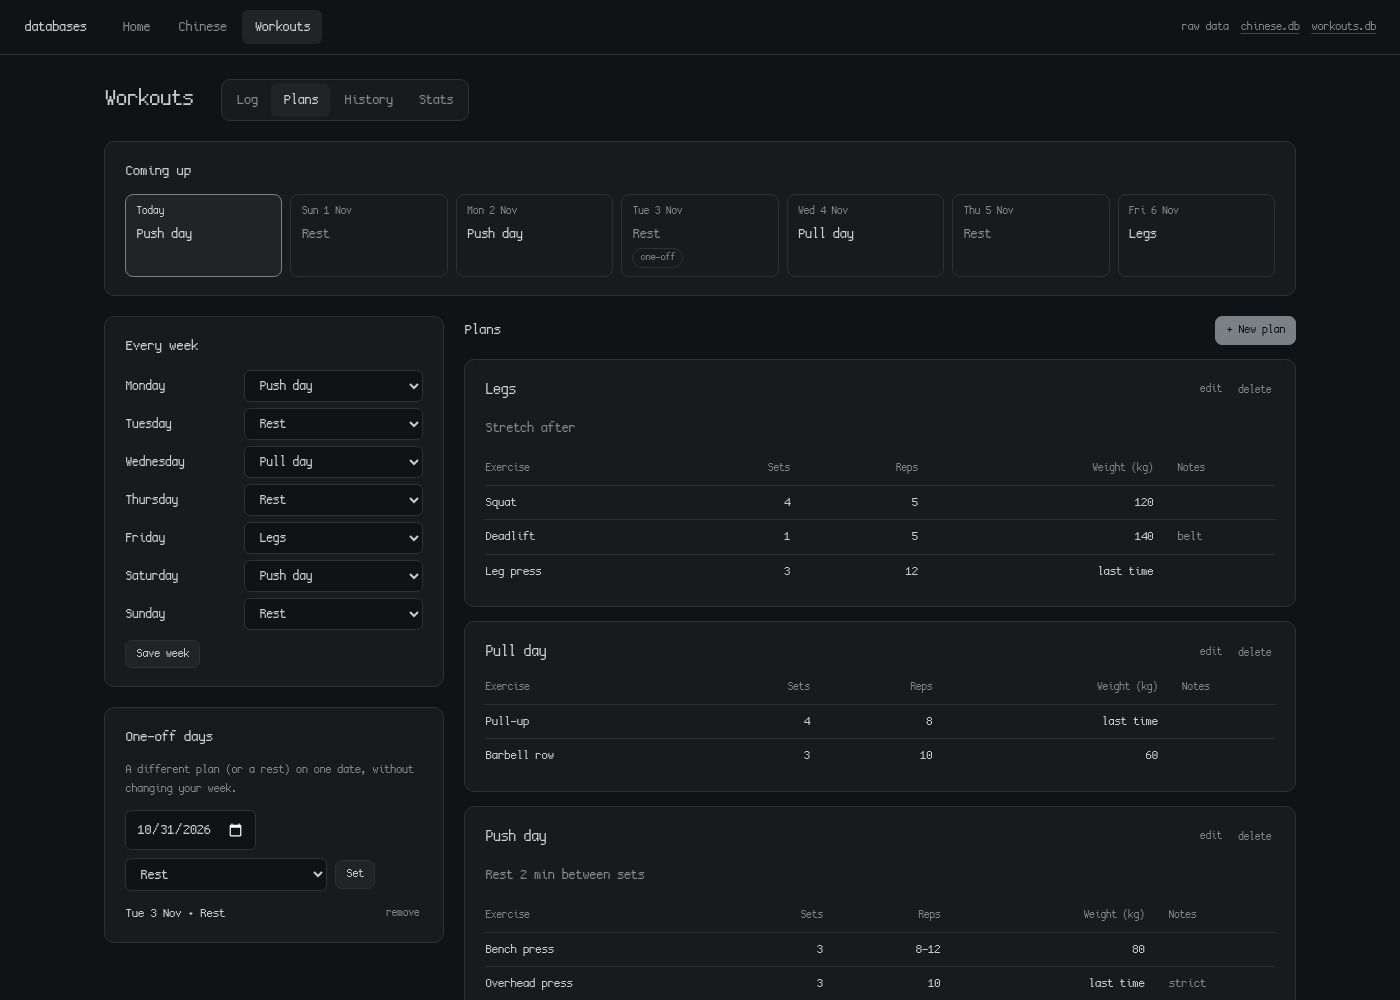
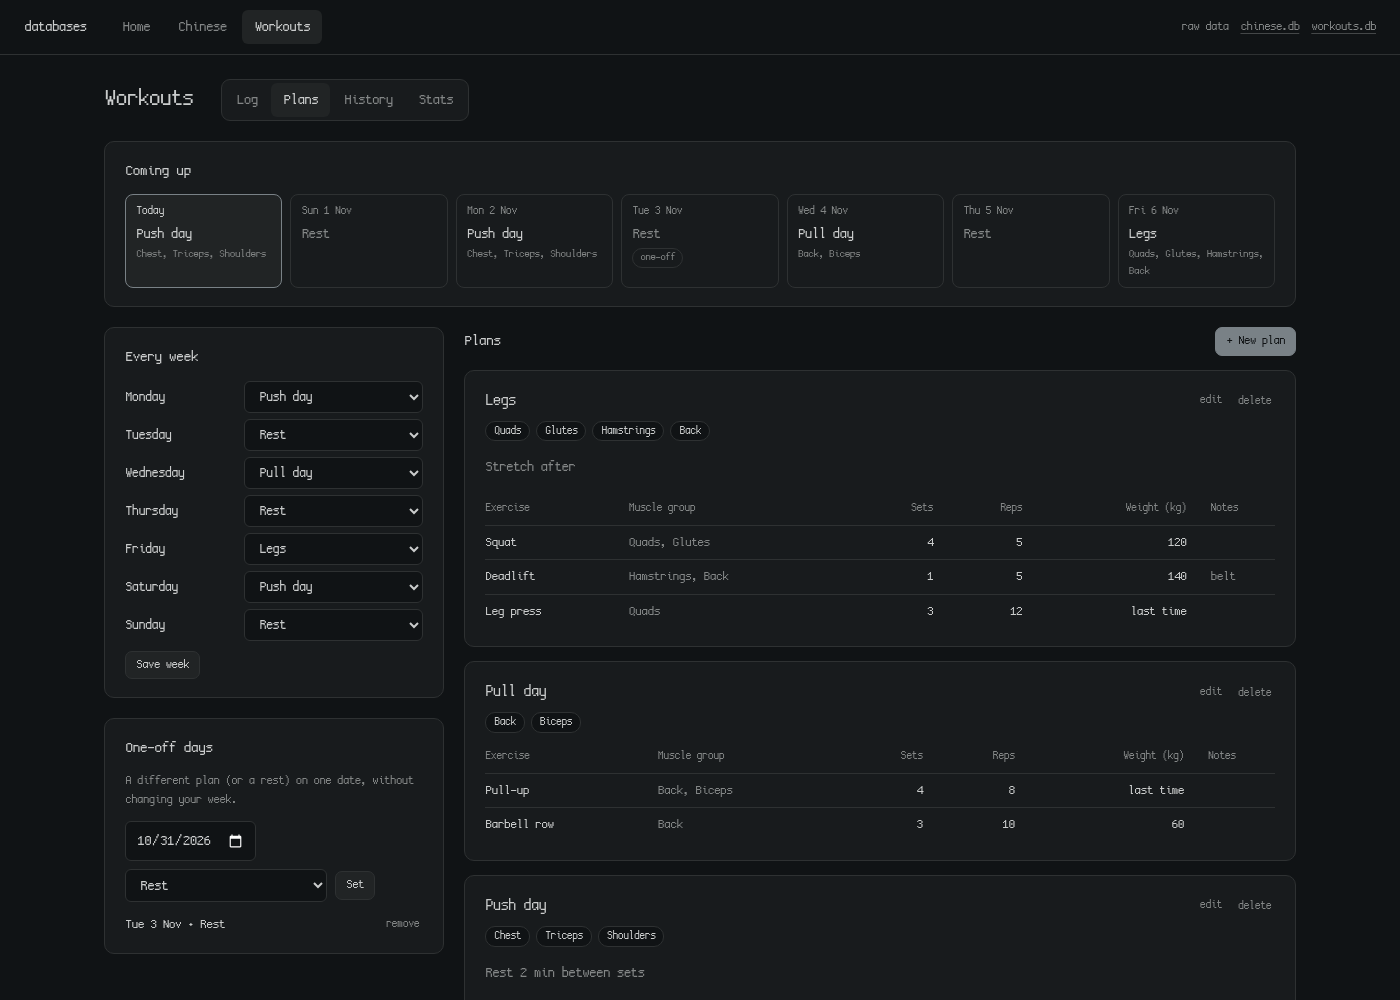
Plans: muscle groups per exercise
Each exercise can have a muscle group (or several, comma-separated), set in
the plan editor and filled in when you pick an exercise again. Plans list the
groups they train, and so do Coming up and the plan on the Log tab.

diff --git a/templates/app_workouts.html b/templates/app_workouts.html
@@ -44,12 +44,14 @@
         <span class="spacer"></span>
         <a class="icon" href="?view=plans&amp;plan={{ plan.id }}">edit plan</a>
       </div>
+      {% if plan.muscles %}<div class="chips">{% for m in plan.muscles %}<span class="chip">{{ m }}</span>{% endfor %}</div>{% endif %}
       {% if plan.notes %}<p class="muted">{{ plan.notes }}</p>{% endif %}
       {% if plan.exercises %}
       <ol class="plan-items">
         {% for e in plan.exercises %}
         <li{% if e.sets and e.done >= e.sets %} class="done"{% endif %}>
           <a href="?date={{ day }}&amp;exercise={{ e.exercise|urlencode }}&amp;reps={{ e.log_reps }}&amp;weight={{ e.log_weight|plain }}" title="Put this in the form">{{ e.exercise }}</a>
+          {% if e.muscle_group %}<span class="chip small">{{ e.muscle_group }}</span>{% endif %}
           <span class="muted">{% if e.sets %}{{ e.sets }} × {% endif %}{{ e.reps or "?" }} reps{% if e.weight is not none %} @ {{ e.weight|num }} kg{% endif %}{% if e.notes %} · {{ e.notes }}{% endif %}</span>
           <span class="spacer"></span>
           <span class="progress">{{ e.done }}{% if e.sets %}/{{ e.sets }}{% endif %} set{{ "s" if (e.sets or e.done) != 1 }}</span>
@@ -113,11 +115,12 @@
   </div>
   <div class="plan-rows-wrap">
   <table class="plan-rows">
-    <thead><tr><th>Exercise</th><th>Sets</th><th>Reps</th><th>Weight (kg)</th><th>Notes</th><th></th></tr></thead>
+    <thead><tr><th>Exercise</th><th>Muscle group</th><th>Sets</th><th>Reps</th><th>Weight (kg)</th><th>Notes</th><th></th></tr></thead>
     <tbody id="plan-rows">
     {% for e in edit.exercises + [none] * (3 if not edit.exercises else 1) %}
       <tr>
         <td><input name="exercise" list="plan-exercise-list" value="{{ e.exercise if e else '' }}" placeholder="Bench press" aria-label="Exercise"></td>
+        <td><input name="muscle" list="muscle-list" value="{{ e.muscle_group if e else '' }}" placeholder="Chest" aria-label="Muscle group"></td>
         <td><input name="sets" type="number" min="1" step="1" value="{{ e.sets if e and e.sets else '' }}" class="narrow" aria-label="Sets"></td>
         <td><input name="reps" value="{{ e.reps if e else '' }}" placeholder="8-12" class="narrow" aria-label="Reps"></td>
         <td><input name="weight" type="number" min="0" step="0.25" value="{{ e.weight|plain if e else '' }}" placeholder="last time" class="narrow" aria-label="Weight in kg"></td>
@@ -132,7 +135,7 @@
     </tbody>
   </table>
   </div>
-  <p class="muted small-print">Reps can be a range like 8-12. Leave weight empty to use whatever you lifted last time. Empty rows are ignored.</p>
+  <p class="muted small-print">Reps can be a range like 8-12. Leave weight empty to use whatever you lifted last time. A muscle group belongs to the exercise, so it shows in every plan that has it and fills in by itself when you pick an exercise you've used; use commas for several ("Chest, Triceps"). Empty rows are ignored.</p>
   <div class="actions">
     <button type="button" class="btn small" id="add-row">+ Add exercise</button>
     <span class="spacer"></span>
@@ -140,6 +143,8 @@
     <button class="btn primary">Save plan</button>
   </div>
   <datalist id="plan-exercise-list">{% for n in exercise_names %}<option>{{ n }}</option>{% endfor %}</datalist>
+  <datalist id="muscle-list">{% for m in muscle_names %}<option>{{ m }}</option>{% endfor %}</datalist>
+  <script type="application/json" id="exercise-muscles">{{ exercise_muscles|tojson }}</script>
 </form>
 {% else %}
 <section class="panel coming-up">
@@ -150,6 +155,7 @@
       <a href="/-/workouts?date={{ u.date }}">
         <span class="when">{{ "Today" if loop.first else u.date|nice_date }}</span>
         <span class="what{{ '' if u.plan else ' rest' }}">{{ u.plan or "Rest" }}</span>
+        {% if u.muscles %}<span class="muscles">{{ u.muscles|join(", ") }}</span>{% endif %}
         {% if u.source == "one-off" %}<span class="badge">one-off</span>{% endif %}
       </a>
     </li>
@@ -215,11 +221,12 @@
           <button class="icon danger" data-name="{{ p.name }}">delete</button>
         </form>
       </header>
+      {% if p.muscles %}<div class="chips">{% for m in p.muscles %}<span class="chip">{{ m }}</span>{% endfor %}</div>{% endif %}
       {% if p.notes %}<p class="muted">{{ p.notes }}</p>{% endif %}
       {% if p.exercises %}
       <table>
-        <thead><tr><th>Exercise</th><th class="n">Sets</th><th class="n">Reps</th><th class="n">Weight (kg)</th><th>Notes</th></tr></thead>
-        <tbody>{% for e in p.exercises %}<tr><td>{{ e.exercise }}</td><td class="n">{{ e.sets or "" }}</td><td class="n">{{ e.reps }}</td><td class="n">{{ e.weight|num if e.weight is not none else "last time" }}</td><td class="muted">{{ e.notes }}</td></tr>{% endfor %}</tbody>
+        <thead><tr><th>Exercise</th><th>Muscle group</th><th class="n">Sets</th><th class="n">Reps</th><th class="n">Weight (kg)</th><th>Notes</th></tr></thead>
+        <tbody>{% for e in p.exercises %}<tr><td>{{ e.exercise }}</td><td class="muted">{{ e.muscle_group }}</td><td class="n">{{ e.sets or "" }}</td><td class="n">{{ e.reps }}</td><td class="n">{{ e.weight|num if e.weight is not none else "last time" }}</td><td class="muted">{{ e.notes }}</td></tr>{% endfor %}</tbody>
       </table>
       {% else %}<p class="empty">No exercises yet. <a href="?view=plans&amp;plan={{ p.id }}">Add some</a>.</p>{% endif %}
     </article>

diff --git a/static/app.js b/static/app.js
@@ -140,6 +140,14 @@ const planRows = $("#plan-rows");
 
 if (planRows) {
   const clear = (row) => $$("input", row).forEach((i) => (i.value = ""));
+  const muscles = JSON.parse($("#exercise-muscles").textContent);
+  // Picking an exercise you've used before fills in its muscle group
+  planRows.addEventListener("change", (e) => {
+    if (e.target.name !== "exercise") return;
+    const muscle = e.target.closest("tr").querySelector("[name=muscle]");
+    const known = muscles[e.target.value.trim().toLowerCase()];
+    if (known && !muscle.value) muscle.value = known;
+  });
   $("#add-row").addEventListener("click", () => {
     const row = planRows.lastElementChild.cloneNode(true);
     clear(row);

diff --git a/static/app.css b/static/app.css
@@ -437,3 +437,9 @@ tbody tr:last-child td { border-bottom: 0; }
   .plans-layout { grid-template-columns: 1fr; }
   .upcoming-days { grid-template-columns: repeat(2, minmax(0, 1fr)); }
 }
+
+/* Muscle groups */
+.chips { display: flex; flex-wrap: wrap; gap: 6px; margin: 2px 0 8px; }
+.chip { font-size: 0.78rem; padding: 1px 8px; border-radius: 10px; background: var(--bg); border: 1px solid var(--border); color: var(--text); }
+.chip.small { font-size: 0.72rem; padding: 0 6px; color: var(--muted); }
+.upcoming-days .muscles { font-size: 0.75rem; color: var(--muted); }

diff --git a/plugins/app.py b/plugins/app.py
@@ -29,6 +29,8 @@ SERIES = {"light": ("#2a78d6", "#eb6834", "#1baf7a"), "dark": ("#3987e5", "#d959
 DATE_RE = re.compile(r"^\d{4}-\d{2}-\d{2}$")
 WEEKDAYS = ("mon", "tue", "wed", "thu", "fri", "sat", "sun")
 WEEKDAY_NAMES = ("Monday", "Tuesday", "Wednesday", "Thursday", "Friday", "Saturday", "Sunday")
+MUSCLE_GROUPS = ("Chest", "Back", "Shoulders", "Biceps", "Triceps", "Forearms", "Core", "Quads",
+                 "Hamstrings", "Glutes", "Calves", "Legs", "Full body", "Cardio")
 _background = set()
 
 
@@ -539,13 +541,25 @@ async def workouts(request, datasette):
 
 # --- Workout plans ------------------------------------------------------------------
 
+def split_muscles(text):
+    return [m.strip() for m in (text or "").split(",") if m.strip()]
+
+
 async def all_plans(wo):
     plans = await rows(wo, "SELECT id, name, notes FROM plans ORDER BY name COLLATE NOCASE")
     by_plan = {}
-    for e in await rows(wo, "SELECT * FROM plan_exercises ORDER BY plan_id, position, id"):
+    for e in await rows(wo, """
+            SELECT pe.*, coalesce(em.muscle_group, '') AS muscle_group
+            FROM plan_exercises pe LEFT JOIN exercise_muscles em ON em.exercise = pe.exercise
+            ORDER BY pe.plan_id, pe.position, pe.id"""):
         by_plan.setdefault(e["plan_id"], []).append(e)
     for p in plans:
         p["exercises"] = by_plan.get(p["id"], [])
+        # The plan's muscle groups, in the order its exercises first train them
+        muscles = []
+        for e in p["exercises"]:
+            muscles += [m for m in split_muscles(e["muscle_group"]) if m.lower() not in map(str.lower, muscles)]
+        p["muscles"] = muscles
     return plans
 
 
@@ -575,12 +589,14 @@ async def plans_page(wo, editing):
     plans = await all_plans(wo)
     sched = await schedule(wo)
     names = {p["id"]: p["name"] for p in plans}
+    muscles = {p["id"]: p["muscles"] for p in plans}
     today = date.today()
     upcoming = []
     for k in range(7):
         d = (today + timedelta(days=k)).isoformat()
         plan_id, source = scheduled(d, sched)
-        upcoming.append({"date": d, "plan": names.get(plan_id), "plan_id": plan_id, "source": source})
+        upcoming.append({"date": d, "plan": names.get(plan_id), "plan_id": plan_id, "source": source,
+                         "muscles": muscles.get(plan_id, [])})
     one_offs = [{"date": d, "plan": names.get(pid)} for d, pid in sorted(sched.items())
                 if DATE_RE.match(d) and d >= today.isoformat()]
     edit = None
@@ -592,6 +608,10 @@ async def plans_page(wo, editing):
         plans=plans, upcoming=upcoming, one_offs=one_offs, edit=edit,
         weekly=[(key, WEEKDAY_NAMES[i], sched.get(key)) for i, key in enumerate(WEEKDAYS)],
         exercise_names=[r["name"] for r in await rows(wo, "SELECT name FROM exercises ORDER BY name COLLATE NOCASE")],
+        exercise_muscles={r["exercise"].lower(): r["muscle_group"]
+                          for r in await rows(wo, "SELECT exercise, muscle_group FROM exercise_muscles")},
+        muscle_names=sorted({*MUSCLE_GROUPS, *(m for r in await rows(wo, "SELECT muscle_group FROM exercise_muscles")
+                                               for m in split_muscles(r["muscle_group"]))}, key=str.lower),
     )
 
 
@@ -601,9 +621,9 @@ async def plan_save(request, datasette):
     plan_id, name = get("id"), get("name")
     if not name:
         return back("/-/workouts", view="plans", plan=plan_id or "new", error="A plan needs a name.")
-    columns = [form.get(k, []) for k in ("exercise", "sets", "reps", "weight", "ex_notes")]
-    exercises = []
-    for exercise, sets, reps, weight, notes in zip(*columns):
+    columns = [form.get(k, []) for k in ("exercise", "sets", "reps", "weight", "ex_notes", "muscle")]
+    exercises, muscles = [], {}
+    for exercise, sets, reps, weight, notes, muscle in zip(*columns):
         if not exercise.strip():
             continue
         try:
@@ -615,6 +635,7 @@ async def plan_save(request, datasette):
             return back("/-/workouts", view="plans", plan=plan_id or "new",
                         error=f"{exercise.strip()}: sets must be a whole number above 0 and weight 0 or more.")
         exercises.append((exercise.strip(), sets_n, reps.strip(), weight_n, notes.strip()))
+        muscles[exercise.strip()] = ", ".join(split_muscles(muscle))
 
     def write(conn):
         if plan_id:
@@ -626,6 +647,11 @@ async def plan_save(request, datasette):
         conn.executemany(
             "INSERT INTO plan_exercises (plan_id, position, exercise, sets, reps, weight, notes) VALUES (?, ?, ?, ?, ?, ?, ?)",
             [(pid, i + 1, *e) for i, e in enumerate(exercises)])
+        # Muscle groups belong to the exercise; an empty field leaves what's there
+        for exercise, muscle in muscles.items():
+            if muscle:
+                conn.execute("INSERT OR REPLACE INTO exercise_muscles (exercise, muscle_group) "
+                             "VALUES ((SELECT name FROM exercises WHERE name = ?), ?)", [exercise, muscle])
 
     try:
         await datasette.get_database("workouts").execute_write_fn(write)

diff --git a/README.md b/README.md
@@ -117,7 +117,8 @@ Each entry is one set: exercise, reps, weight in kg (0 means bodyweight) and dat
 
 - **Log:** press **Log set** once per set. The form stays filled in for the next set, and picking an exercise fills in what you did last time. **+ Same again** logs another identical set. Sets of the same exercise on the same day are numbered, and one day is one workout. ‹ › steps through earlier workouts, and each set has **edit** and **delete**. When a plan is on that day, it's shown at the top with how many of each exercise's sets you've done. **+ Log set** next to an exercise logs one set of it as planned, and clicking its name puts it in the form so you can change the numbers first.
 - **Plans:** plan your workouts ahead.
-  - **+ New plan** makes a plan (say "Push day") with a list of exercises, each with target sets, reps (a number or a range like 8-12), weight and notes. Leave the weight empty to use whatever you lifted last time. **up**/**down** reorder the exercises, and **edit**/**delete** on a plan change it later.
+  - **+ New plan** makes a plan (say "Push day") with a list of exercises, each with a muscle group, target sets, reps (a number or a range like 8-12), weight and notes. Leave the weight empty to use whatever you lifted last time. **up**/**down** reorder the exercises, and **edit**/**delete** on a plan change it later.
+  - **Muscle groups** belong to the exercise ("Chest", or "Chest, Triceps" for several), so they show in every plan with that exercise and fill in by themselves when you pick it again. Each plan lists the muscle groups it trains, and so do the days in Coming up and the plan on the Log tab.
   - **Every week** puts a plan on each weekday (or leaves it a rest day), repeating every week.
   - **One-off days** set a different plan, or a rest, on one date without changing your week; **Back to the weekly plan** undoes it.
   - **Coming up** shows the next 7 days, so you can see what's on which day.
@@ -160,6 +161,6 @@ The tables:
 - **`study_log`:** a row every time a word changes list; the weekly stats use it.
 - **`settings`:** `revise_after_days` holds the 7 days.
 - **`sets`:** one row per set. The views `set_log`, `workouts` and `records` add set numbers, one row per workout, and best results per exercise.
-- **`plans`**, **`plan_exercises`**, **`plan_schedule`:** the plans, their exercises in order, and which plan is on which day. A day is a weekday (`mon` ... `sun`, every week) or a date (a one-off that wins over its weekday); no plan means a rest day.
+- **`plans`**, **`plan_exercises`**, **`plan_schedule`:** the plans, their exercises in order, and which plan is on which day. **`exercise_muscles`** holds each exercise's muscle group. A day is a weekday (`mon` ... `sun`, every week) or a date (a one-off that wins over its weekday); no plan means a rest day.
 
 Datasette runs this folder in configuration-directory mode, so it loads every `*.db` here along with `plugins/`, `templates/`, `static/` and both YAML files.
